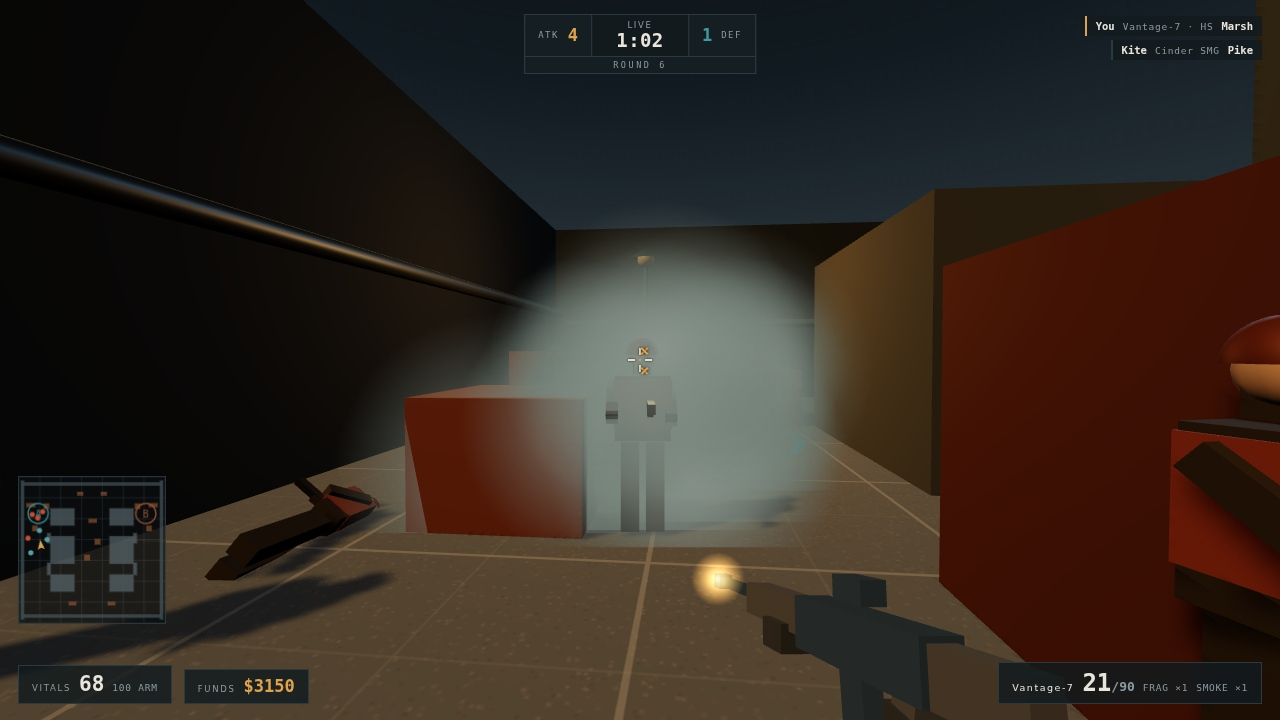
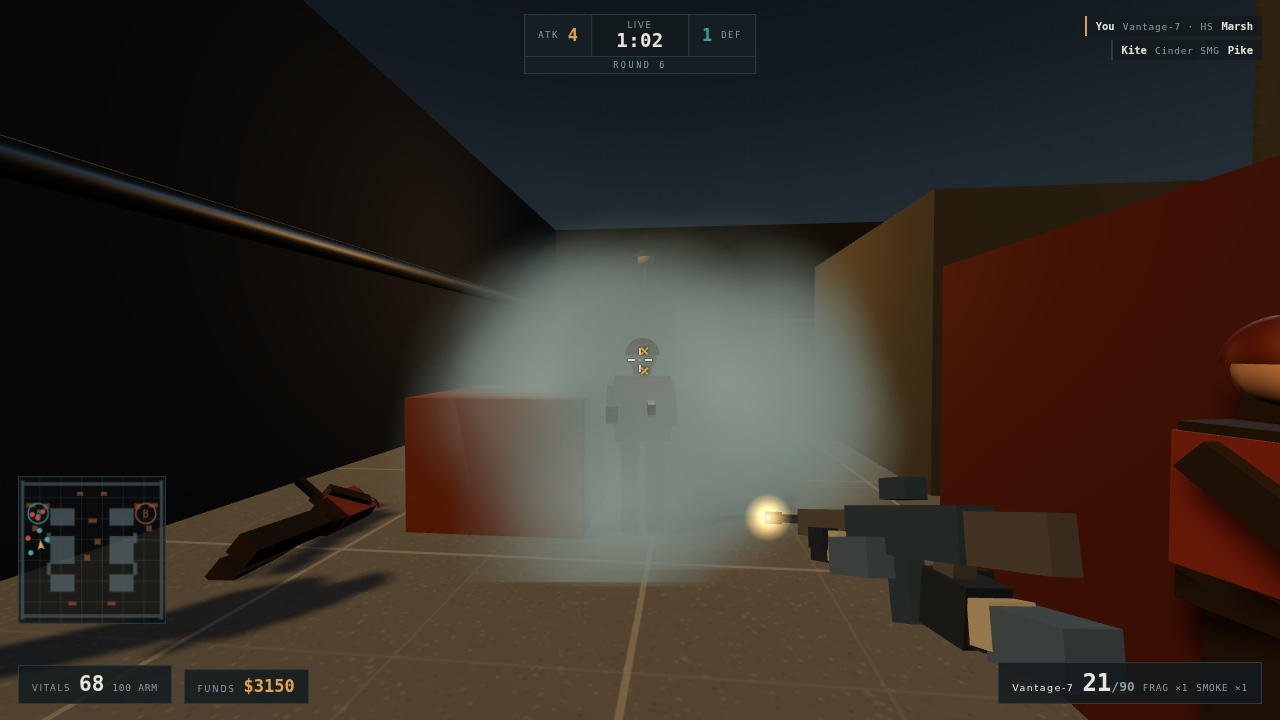
Fix the viewmodel anchor and put the weapon in frame
The rifle's root sat at y -0.3, z -0.72 with a 0.7 scale, which projected its
bounding box to y 483-1007 in a 720-tall frame: the whole model fell below the
bottom edge and no weapon showed in any screenshot. The anchor is now measured
rather than guessed (x 0.3, y -0.14, z -0.64, scale 0.52), landing the model at
x 739-1067, y 406-654 so the receiver, hands and muzzle are all inside the
viewport.

Hands were four small dark boxes that vanished against the receiver. Each hand
now carries a glove body, a lighter cuff and a sleeve that runs to the frame
edge, so the weapon reads as held instead of floating. The pistol got the same
treatment plus a 1.18 scale, since at the rifle's scale it was too small to see
on the start screen.

The start shot no longer draws the centred deploy modal: it covered the weapon
and the corridor, which is exactly what a cover image has to show.

diff --git a/game/src/viewmodel.js b/game/src/viewmodel.js
@@ -6,7 +6,9 @@ const STEEL = new THREE.MeshStandardMaterial({ color: '#4e5a62', roughness: 0.48
 const POLYMER = new THREE.MeshStandardMaterial({ color: '#4a4137', roughness: 0.84, metalness: 0.1 });
 const ACCENT = new THREE.MeshStandardMaterial({ color: '#8f4f2e', roughness: 0.7, metalness: 0.2 });
 const BRASS = new THREE.MeshStandardMaterial({ color: '#a58344', roughness: 0.45, metalness: 0.6 });
-const GLOVE = new THREE.MeshStandardMaterial({ color: '#2f2a24', roughness: 0.95, metalness: 0.02 });
+const GLOVE = new THREE.MeshStandardMaterial({ color: '#1e2328', roughness: 0.86, metalness: 0.05 });
+const CUFF = new THREE.MeshStandardMaterial({ color: '#8d7a5c', roughness: 0.8, metalness: 0.08 });
+const SLEEVE = new THREE.MeshStandardMaterial({ color: '#3f4a52', roughness: 0.9, metalness: 0.04 });
 
 function box(w, h, d, material, x, y, z, rx = 0, ry = 0) {
   const mesh = new THREE.Mesh(new THREE.BoxGeometry(w, h, d), material);
@@ -30,11 +32,23 @@ function buildRifle() {
   group.add(box(0.03, 0.026, 0.02, BRASS, 0, 0.085, -0.235));
   group.add(box(0.02, 0.02, 0.06, STEEL, 0.045, 0.03, -0.2));
 
-  // Hands: right on the grip, left under the handguard.
-  group.add(box(0.075, 0.09, 0.11, GLOVE, 0.01, -0.12, -0.02, 0.2));
-  group.add(box(0.05, 0.05, 0.06, GLOVE, 0.045, -0.09, -0.06));
-  group.add(box(0.085, 0.06, 0.1, GLOVE, -0.005, -0.045, -0.47));
-  group.add(box(0.03, 0.045, 0.09, GLOVE, 0.045, -0.02, -0.44));
+  // Hands: right on the grip, left under the handguard. Sized and coloured to read at
+  // viewmodel distance: a dark glove alone vanished against the receiver, so each hand
+  // carries a lighter glove body, a cuff and a sleeve in the loadout's rust accent.
+  // Right hand: wraps the grip, knuckles forward.
+  group.add(box(0.088, 0.105, 0.13, GLOVE, 0.012, -0.125, -0.02, 0.2));
+  group.add(box(0.062, 0.062, 0.075, GLOVE, 0.05, -0.095, -0.062));
+  group.add(box(0.075, 0.05, 0.09, GLOVE, 0.012, -0.155, 0.035, 0.1));
+  // Right cuff and sleeve running back out of frame.
+  group.add(box(0.085, 0.075, 0.055, CUFF, 0.014, -0.14, 0.075));
+  group.add(box(0.095, 0.085, 0.16, SLEEVE, 0.02, -0.155, 0.17, 0.06));
+  // Left hand: supports the handguard from below.
+  group.add(box(0.095, 0.072, 0.115, GLOVE, -0.008, -0.05, -0.47));
+  group.add(box(0.038, 0.052, 0.1, GLOVE, 0.048, -0.025, -0.44));
+  group.add(box(0.04, 0.05, 0.085, GLOVE, -0.052, -0.03, -0.46));
+  // Left cuff and sleeve running back and down out of frame.
+  group.add(box(0.092, 0.07, 0.06, CUFF, -0.012, -0.045, -0.395));
+  group.add(box(0.1, 0.082, 0.18, SLEEVE, -0.03, -0.06, -0.28, -0.05));
 
   const muzzle = new THREE.Object3D();
   muzzle.position.set(0, 0.012, -0.97);
@@ -43,14 +57,24 @@ function buildRifle() {
   return group;
 }
 
-// A pistol: slide, frame, and one hand wrapping the grip.
+// A pistol: slide, frame, and one hand wrapping the grip. Scaled up relative to the
+// rifle because it is shorter: at the same root scale it sat too small and too low to
+// read, and the start screen (which draws the pistol) showed no weapon at all.
 function buildPistol() {
   const group = new THREE.Group();
   group.add(box(0.052, 0.062, 0.25, STEEL, 0, 0.01, -0.15));
   group.add(box(0.05, 0.1, 0.075, POLYMER, 0, -0.07, -0.01, 0.16));
   group.add(box(0.02, 0.02, 0.05, STEEL, 0, 0.022, -0.29));
+  // Right hand on the grip, with a cuff and a sleeve that reaches the frame edge.
   group.add(box(0.078, 0.1, 0.1, GLOVE, 0.005, -0.08, -0.01, 0.16));
   group.add(box(0.03, 0.045, 0.075, GLOVE, 0.04, -0.055, -0.02));
+  group.add(box(0.082, 0.075, 0.06, CUFF, 0.006, -0.095, 0.06));
+  group.add(box(0.095, 0.085, 0.2, SLEEVE, 0.012, -0.11, 0.17, 0.08));
+  // Left hand cupping the grip from the other side.
+  group.add(box(0.06, 0.085, 0.09, GLOVE, -0.045, -0.085, -0.015, 0.16));
+  group.add(box(0.07, 0.07, 0.06, CUFF, -0.05, -0.1, 0.05));
+  group.add(box(0.085, 0.08, 0.17, SLEEVE, -0.06, -0.115, 0.15, 0.08));
+  group.scale.setScalar(1.18);
   const muzzle = new THREE.Object3D();
   muzzle.position.set(0, 0.02, -0.32);
   group.add(muzzle);
@@ -99,9 +123,14 @@ export function createViewmodel() {
   scene.add(fill);
 
   const root = new THREE.Group();
-  root.scale.setScalar(0.7);
-  root.position.set(0.3, -0.3, -0.72);
-  root.rotation.set(0.03, 0.2, 0);
+  // The rifle sits low-right and reads as held. These numbers are measured, not
+  // guessed: the model's projected bounding box lands at x 739-1067, y 406-654 in a
+  // 1280x720 frame, so the receiver, the hands and the muzzle are all inside the
+  // viewport. The first anchor (-0.3 y, -0.72 z) dropped the whole model below the
+  // bottom edge at 720p and the weapon never showed.
+  root.scale.setScalar(0.52);
+  root.position.set(0.3, -0.14, -0.64);
+  root.rotation.set(0.02, 0.16, 0);
   scene.add(root);
 
   const models = {
@@ -200,12 +229,12 @@ export function createViewmodel() {
 
       root.position.set(
         0.3 + bobX + state.swayX * 0.012,
-        -0.3 - bobY + state.swayY * 0.012 - reloadDip * 0.2,
-        -0.72 + state.kick * 0.03,
+        -0.14 - bobY + state.swayY * 0.012 - reloadDip * 0.2,
+        -0.64 + state.kick * 0.03,
       );
       root.rotation.set(
-        0.03 - state.kickRot * 0.45 + state.swayY * 0.03 - reloadDip * 1.2,
-        0.2 - bobX * 1.2 + state.swayX * 0.25,
+        0.02 - state.kickRot * 0.45 + state.swayY * 0.03 - reloadDip * 1.2,
+        0.16 - bobX * 1.2 + state.swayX * 0.25,
         -state.kickRot * 0.16,
       );
 

diff --git a/game/src/main.js b/game/src/main.js
@@ -860,18 +860,15 @@ function setupShot(kind) {
   player.smokes = 0;
 
   if (kind === 'start') {
+    // The cover shot: the deploy scene and HUD without the centred title modal. A modal
+    // there covers the weapon and the corridor's focal point, which is what a cover has
+    // to show; the wordmark belongs in a corner, not over the frame.
     player.pos.set(-3.6, 0, 14.8);
     player.yaw = -0.04;
     player.pitch = -0.02;
-    hud.showScreen({
-      eyebrow: 'Three.js tactical FPS',
-      title: 'Ashfall',
-      body: 'A water-treatment plant at dusk. Two sites, three lanes, one charge. Attackers plant, defenders hold, money buys the next round.',
-      action: 'Deploy',
-      fine: 'Single player against bots. Built with three.js 0.187.0, no build step, no network.',
-      controls: true,
-      tone: 'default',
-    });
+    hud.hideScreen();
+    hud.setScore(0, 0, 1);
+    hud.setMoney(player.money);
   }
 
   if (kind === 'buy') {
